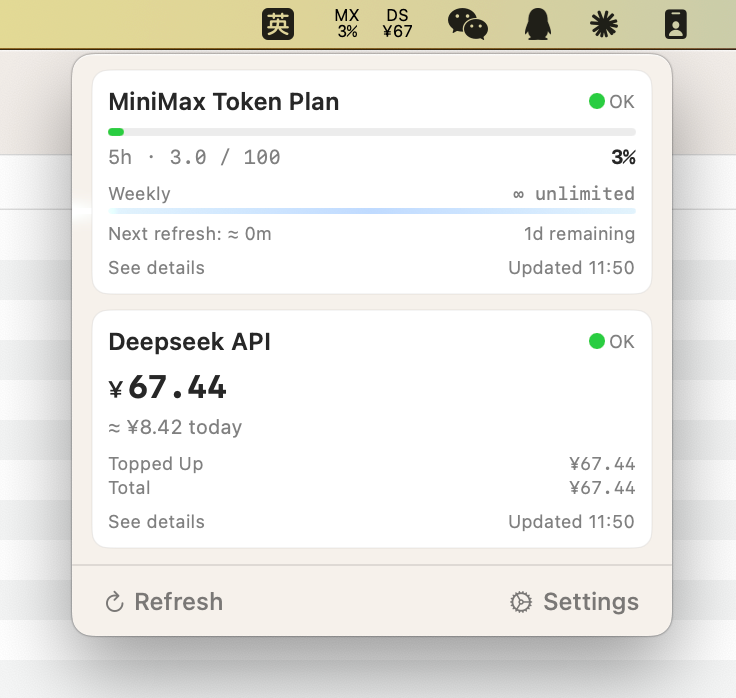
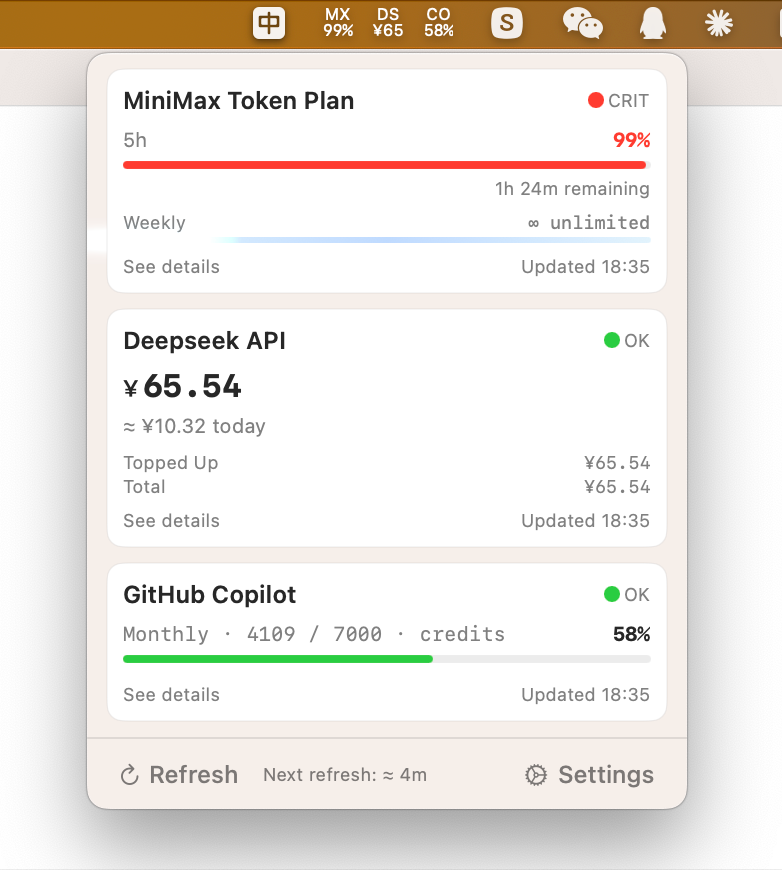
docs: update architecture, minimax doc, and README screenshot
- ARCHITECTURE.md: update the refresh flow description and the
  detailed step list to reflect that the Next refresh countdown is
  now derived in UsagePanelView from AppStateProxy (not injected
  via InstanceType.quota). Remove the now-dead "对配额型实例计算
  时间派生字段" step. Update the flow chart's per-card time
  derivation section to describe the cycleRemainingSeconds pipeline
  (end_time → seconds → Xh Ym). Update the InstanceType.quota
  signature in the data model section.
- docs/provider-interfaces/minimax.md: expand the end_time row's
  "用途" column from the terse "UI 倒计时" to the full dependency
  chain (RefreshService → cycleRemainingSeconds →
  UsageCardView.formatRemainingTime) and document the missing-field
  fallback (row hidden).
- docs/README_assets/ScreenShot.png: refresh to reflect the new
  panel layout (text-above-bar, no n/m denominator, no left-side
  percent, countdown row, "Next refresh" at the bottom).

Changed region(s): [[0.0, 0.0, 1.0, 0.9327], [0.1562, 0.6619, 0.8438, 0.8123]]

diff --git a/docs/ARCHITECTURE.md b/docs/ARCHITECTURE.md
@@ -193,15 +193,14 @@
 
 **职责**：编排刷新周期。使用 **Actor**。
 
-- 管理定时刷新的 `Timer`，记录 `lastRefreshAt: Date` 用于计算下一次刷新的剩余分钟数
+- 管理定时刷新的 `Timer`，记录 `lastRefreshAt: Date`。"Next refresh" 倒计时的显示由 `UsagePanelView` 从 `AppStateProxy.lastRefreshAt` + `globalSettings.refreshIntervalMinutes` 派生,**不再通过 `InstanceType.quota` 关联值注入**
 - 每次触发（定时或手动）：
   1. 按 `api_key_ref` 分组实例，以确定 HTTP 请求数量
   2. 对每组调用对应 `Supplier` 实现
   3. 以指数退避方式重试（最多 3 次）
   4. 解析响应，更新 `AppState`
   5. 对余额型实例触发余额历史计算，若 API 响应的 `currency` 与实例当前值不同，自动更新并写回 `instances.json`
-  6. 对配额型实例计算时间派生字段（`nextRefreshMinutes`、`cycleRemainingDays`）
-  7. 触发阈值评估与通知
+  6. 触发阈值评估与通知
 - 应用终止时取消 Timer
 
 ### 2.8 供应商协议（`Supplier.swift`）
@@ -353,14 +352,7 @@ RefreshService.performRefresh()
     │     └──▶ 映射 SupplierResponse → 每实例 SlotViewData
     │              （一次响应中提取多个 MiniMax 维度）
     │
-    ├──▶ 对每个配额型实例，计算时间派生字段：
-    │     │
-    │     ├──▶ nextRefreshMinutes = refreshInterval - 上次刷新至今已过秒数 ÷ 60
-    │     │
-    │     └──▶ 按维度计算 cycleRemainingDays：
-    │           - 5 小时滚动窗口（如 MiniMax-M2.7）→ nil（滚动窗口无天概念）
-    │           - 每日配额型（如 speech-hd）→ 距今日 23:59:59 天数（即 0 或 1）
-    │           - 周累计型（current_weekly_total_count > 0 时）→ 距本周日 23:59:59 天数
+    ├──▶ 对每个配额型实例，解析响应时算出 `cycleRemainingSeconds`（基于 `<model>:end_time` 毫秒时间戳 - 当前时刻），注入到 `InstanceType.quota` 关联值，UI 层据此格式化为 `Xh Ym` / `Xm` / `Xd remaining`。字段缺失则该行隐藏
     │
     ├──▶ AppState.updateSlotData(slotViewDataList)
     │
@@ -511,8 +503,7 @@ struct SlotViewData {
 
     enum InstanceType {
         case quota(percent: Double, usageValue: String, limitValue: String,
-                   nextRefreshMinutes: Int,          // 距下次定时刷新的分钟数
-                   cycleRemainingDays: Int?)           // 自然天/周配额型的周期剩余天数；5h 滚动窗口为 nil
+                   cycleRemainingSeconds: Int?)   // 周期剩余秒数（基于 <model>:end_time 算出）；缺失则 UI 倒计时行隐藏
         case balance(amount: String, totalBalance: String, grantedBalance: String,
                    isAvailable: Bool, currency: String?)
     }

diff --git a/docs/provider-interfaces/minimax.md b/docs/provider-interfaces/minimax.md
@@ -117,7 +117,7 @@ Authorization: Bearer <apiKey>
 | `<model_name>:weekly_status` | `current_weekly_status` 原始值 | 判定 weekly `isUnlimited` |
 | `<model_name>:weekly_remaining` | weekly 剩余百分比 | 周窗口精度 |
 | `<model_name>:weekly_percent` | weekly 用量百分比 | 周窗口主显示 |
-| `<model_name>:end_time` | 5h 窗口 end_time 毫秒 | UI 倒计时 |
+| `<model_name>:end_time` | 5h 窗口 end_time 毫秒时间戳 | **字段依赖**:RefreshService 算成 `cycleRemainingSeconds` 注入 `InstanceType.quota`,UI 层 `UsageCardView.formatRemainingTime` 格式化为 `Xh Ym` / `Xm` / `Xd remaining`。字段缺失则倒计时行整行隐藏 |
 | `_model_names` | 逗号拼接的 model 列表 | `InstanceEditorView` 维度选择器 |
 
 **示例**（响应里有 `MiniMax-M2.7` 一条）：